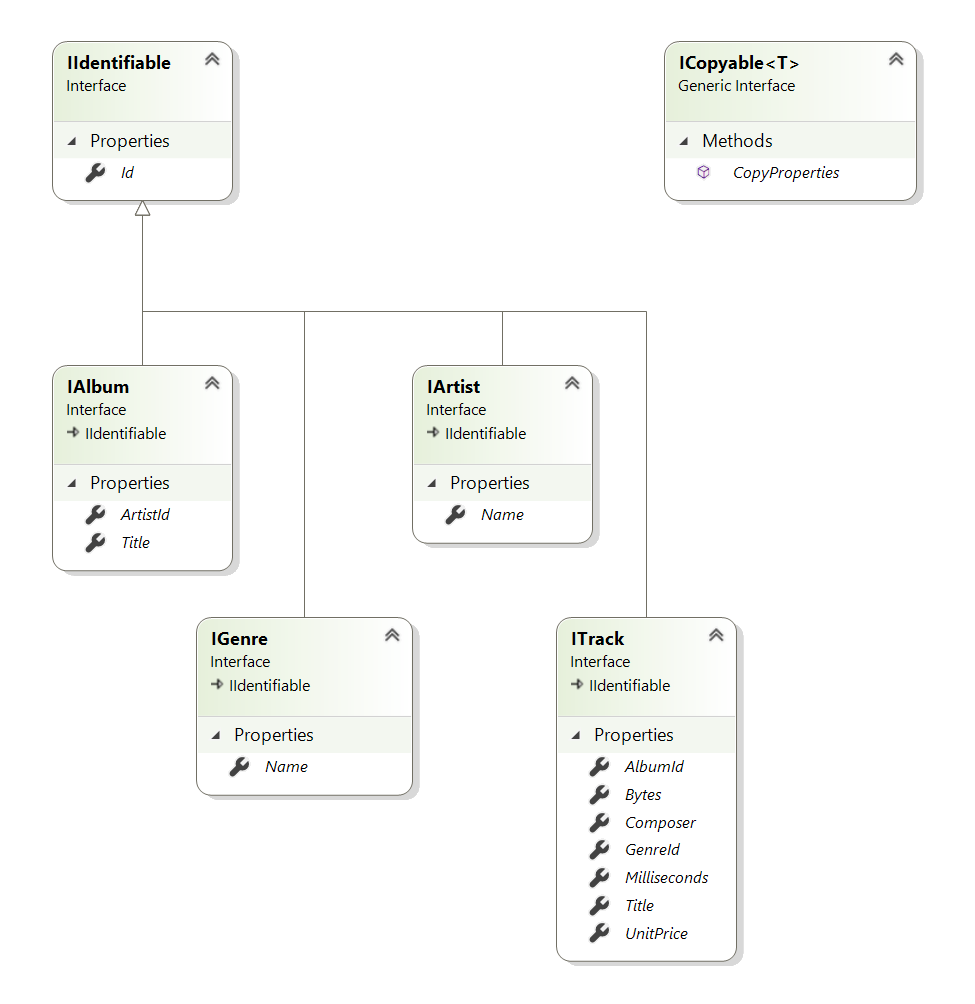
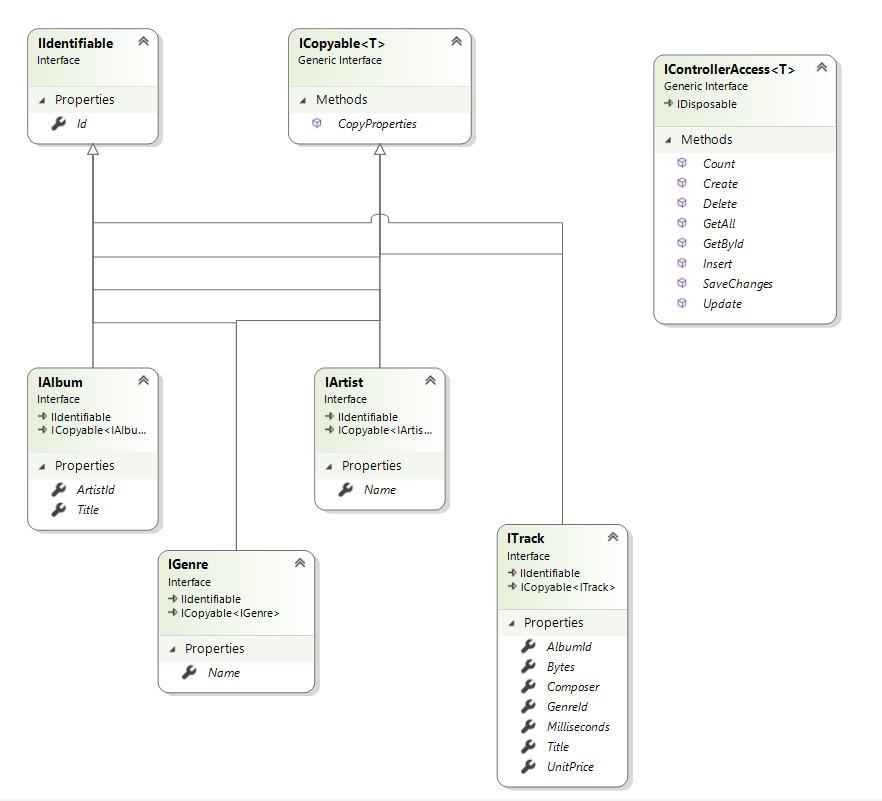
Edit documentation

diff --git a/MusicStore.Contracts/Persistence/IAlbum.cs b/MusicStore.Contracts/Persistence/IAlbum.cs
@@ -1,13 +1,14 @@
-//MdStart
+//@BaseCode
+//MdStart
 namespace MusicStore.Contracts.Persistence
 {
     /// <summary>
-    /// This interface defines properties of an album.
+    /// Defines all public properties of an album.
     /// </summary>
-	public interface IAlbum : IIdentifiable
+    public interface IAlbum : IIdentifiable, ICopyable<IAlbum>
     {
         /// <summary>
-        /// Gets or sets the reference id from artist.
+        /// Gets or sets the reference id from an artist.
         /// </summary>
         int ArtistId { get; set; }
         /// <summary>

diff --git a/MusicStore.Contracts/Persistence/IArtist.cs b/MusicStore.Contracts/Persistence/IArtist.cs
@@ -1,9 +1,11 @@
-namespace MusicStore.Contracts.Persistence
+//@BaseCode
+//MdStart
+namespace MusicStore.Contracts.Persistence
 {
     /// <summary>
-    /// This interface defines properties of an artist.
+    /// Defines all properties of an artist.
     /// </summary>
-	public interface IArtist : IIdentifiable
+	public interface IArtist : IIdentifiable, ICopyable<IArtist>
     {
         /// <summary>
         /// Gets or sets the name of this instance.
@@ -11,3 +13,4 @@
         string Name { get; set; }
     }
 }
+//MdEnd

diff --git a/MusicStore.Contracts/Persistence/ITrack.cs b/MusicStore.Contracts/Persistence/ITrack.cs
@@ -1,9 +1,11 @@
-namespace MusicStore.Contracts.Persistence
+//@BaseCode
+//MdStart
+namespace MusicStore.Contracts.Persistence
 {
     /// <summary>
-    /// This interface defines properties of a track.
+    /// Defines all properties of a track.
     /// </summary>
-	public interface ITrack : IIdentifiable
+	public interface ITrack : IIdentifiable, ICopyable<ITrack>
     {
         /// <summary>
         /// Gets or sets the reference id from album.
@@ -35,3 +37,4 @@
         double UnitPrice { get; set; }
     }
 }
+//MdEnd

diff --git a/MusicStore.Contracts/Persistence/IGenre.cs b/MusicStore.Contracts/Persistence/IGenre.cs
@@ -1,9 +1,11 @@
-namespace MusicStore.Contracts.Persistence
+//@BaseCode
+//MdStart
+namespace MusicStore.Contracts.Persistence
 {
     /// <summary>
-    /// This interface defines properties of a genre.
+    /// Defines all properties of a genre.
     /// </summary>
-	public interface IGenre : IIdentifiable
+	public interface IGenre : IIdentifiable, ICopyable<IGenre>
     {
         /// <summary>
         /// Gets or sets the name of this instance.
@@ -11,3 +13,4 @@
         string Name { get; set; }
     }
 }
+//MdEnd

diff --git a/MusicStore.Logic/Entities/Persistence/Album.cs b/MusicStore.Logic/Entities/Persistence/Album.cs
@@ -8,7 +8,7 @@ namespace MusicStore.Logic.Entities.Persistence
     /// Implements the properties and methods of album model.
     /// </summary>
     [Serializable]
-    partial class Album : IdentityObject, Contracts.Persistence.IAlbum, ICopyable<Contracts.Persistence.IAlbum>
+    partial class Album : IdentityObject, Contracts.Persistence.IAlbum
     {
         public int ArtistId { get; set; }
         public string Title { get; set; }

diff --git a/MusicStore.Logic/Entities/Persistence/Track.cs b/MusicStore.Logic/Entities/Persistence/Track.cs
@@ -7,7 +7,7 @@ namespace MusicStore.Logic.Entities.Persistence
     /// Implements the properties and methods of track model.
     /// </summary>
     [Serializable]
-    partial class Track : IdentityObject, Contracts.Persistence.ITrack, ICopyable<Contracts.Persistence.ITrack>
+    partial class Track : IdentityObject, Contracts.Persistence.ITrack
     {
         public int AlbumId { get; set; }
         public int GenreId { get; set; }

diff --git a/MusicStore.Logic/Entities/Persistence/Artist.cs b/MusicStore.Logic/Entities/Persistence/Artist.cs
@@ -8,7 +8,7 @@ namespace MusicStore.Logic.Entities.Persistence
     /// Implements the properties and methods of artist model.
     /// </summary>
     [Serializable]
-    partial class Artist : IdentityObject, Contracts.Persistence.IArtist, ICopyable<Contracts.Persistence.IArtist>
+    partial class Artist : IdentityObject, Contracts.Persistence.IArtist
     {
         public string Name { get; set; }
 

diff --git a/MusicStore.Logic/Entities/Persistence/Genre.cs b/MusicStore.Logic/Entities/Persistence/Genre.cs
@@ -8,7 +8,7 @@ namespace MusicStore.Logic.Entities.Persistence
     /// Implements the properties and methods of genre model.
     /// </summary>
     [Serializable]
-    partial class Genre : IdentityObject, Contracts.Persistence.IGenre, ICopyable<Contracts.Persistence.IGenre>
+    partial class Genre : IdentityObject, Contracts.Persistence.IGenre
     {
         public string Name { get; set; }
 

diff --git a/MusicStore.Contracts/ICopyable.cs b/MusicStore.Contracts/ICopyable.cs
@@ -2,6 +2,10 @@
 //MdStart
 namespace MusicStore.Contracts
 {
+	/// <summary>
+	/// Defines a generalized copying method for all properties defined by the Type T.
+	/// </summary>
+	/// <typeparam name="T">The type of object to copy.</typeparam>
 	public partial interface ICopyable<T>
 	{
 		void CopyProperties(T other);

diff --git a/MusicStore.Contracts/IIdentifiable.cs b/MusicStore.Contracts/IIdentifiable.cs
@@ -3,7 +3,7 @@
 namespace MusicStore.Contracts
 {
     /// <summary>
-    /// Defines the basic properties and methods of identifiable components.
+    /// Defines the basic properties of identifiable components.
     /// </summary>
     public partial interface IIdentifiable
     {

diff --git a/MusicStore.Contracts/Client/IControllerAccess.cs b/MusicStore.Contracts/Client/IControllerAccess.cs
@@ -1,4 +1,5 @@
 //@BaseCode
+//@BaseCode
 //MdStart
 using System;
 using System.Collections.Generic;

diff --git a/README.md b/README.md
@@ -71,9 +71,9 @@ Zu beachten ist, dass keine Schnittstelle die Navigationseigenschaften der Entit
 namespace MusicStore.Contracts
 {
     /// <summary>
-    /// Defines the basic properties and methods of identifiable components.
+    /// Defines the basic properties of identifiable components.
     /// </summary>
-    public interface IIdentifiable
+    public partial interface IIdentifiable
     {
         /// <summary>
         /// Gets the identity of the component.
@@ -82,18 +82,34 @@ namespace MusicStore.Contracts
     }
 }
 ```  
-Die Schnittstelle 'Identifyable' definiert eine schreibgeschützte Eigenschaft 'Id'. Diese Eigenschaft kann nur innerhalb des Projektes 'MusicStore.Logic' verändert werden. Diese Schnittstelle bildet die Basis für alle anderen Schnittstellen vom Typ Entity. Im nachfolgenden wird die Schnittstelle 'IAlbum' stellvertretend für alle Entitäten betrachtet.
+Die Schnittstelle 'Identifyable' definiert eine schreibgeschützte Eigenschaft 'Id'. Diese Eigenschaft kann nur innerhalb des Projektes 'MusicStore.Logic' verändert werden. Diese Schnittstelle bildet die Basis für alle anderen Schnittstellen vom Typ Entity.  
+
+```csharp ({"Type": "FileRef", "File": "Contracts/ICopyable.cs", "StartTag": "//MdStart", "EndTag": "//MdEnd" })
+namespace MusicStore.Contracts
+{
+	/// <summary>
+	/// Defines a generalized copying method for all properties defined by the Type T.
+	/// </summary>
+	/// <typeparam name="T">The type of object to copy.</typeparam>
+	public partial interface ICopyable<T>
+	{
+		void CopyProperties(T other);
+	}
+}
+```  
+
+Im nachfolgenden wird die Schnittstelle 'IAlbum' stellvertretend für alle Entitäten betrachtet.
 
 ```csharp ({"Type": "FileRef", "File": "Contracts/Persistence/IAlbum.cs", "StartTag": "//MdStart", "EndTag": "//MdEnd" })
 namespace MusicStore.Contracts.Persistence
 {
     /// <summary>
-    /// This interface defines properties of an album.
+    /// Defines all public properties of an album.
     /// </summary>
-	public interface IAlbum : IIdentifiable
+    public interface IAlbum : IIdentifiable
     {
         /// <summary>
-        /// Gets or sets the reference id from artist.
+        /// Gets or sets the reference id from an artist.
         /// </summary>
         int ArtistId { get; set; }
         /// <summary>
